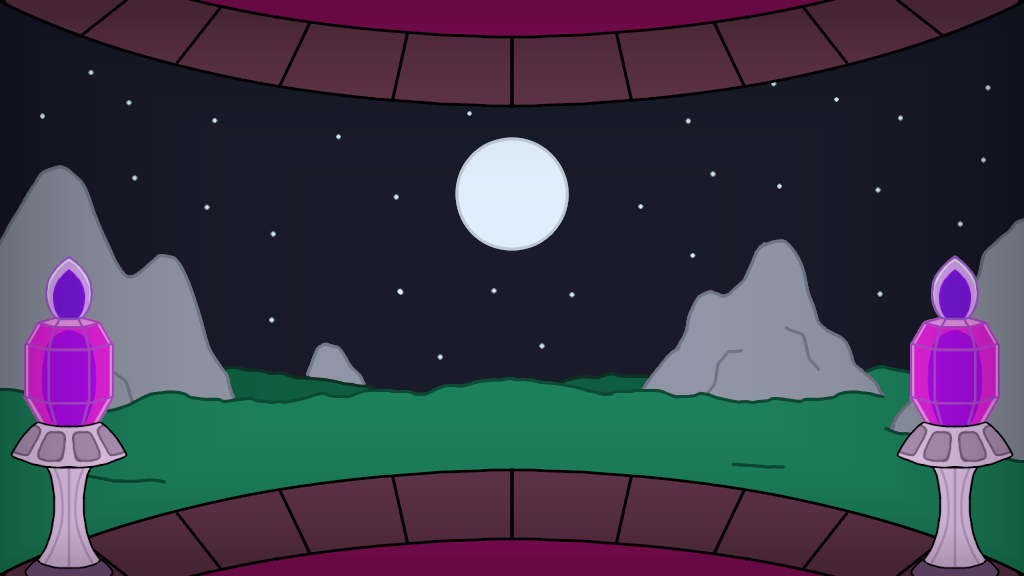
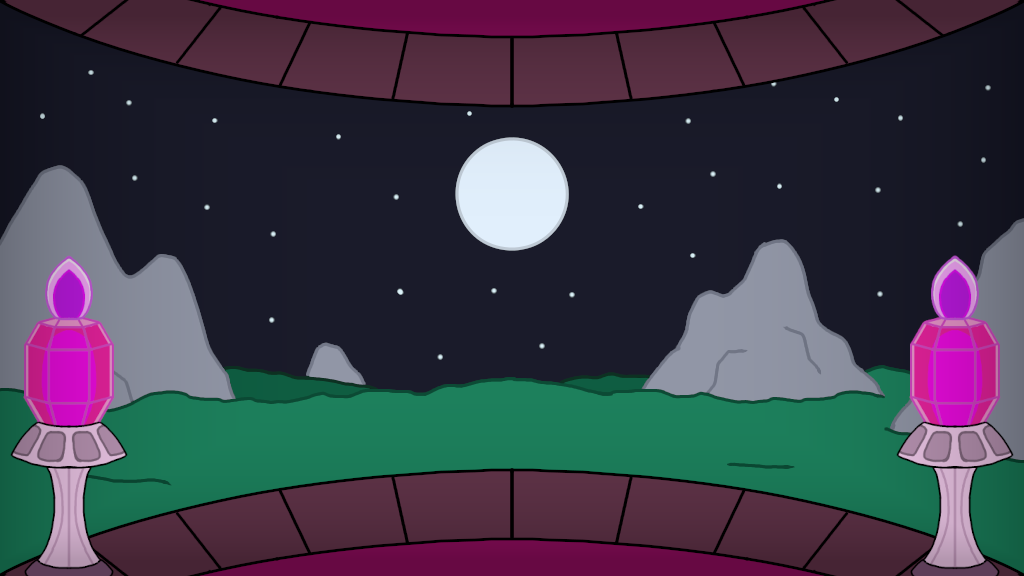
Updated Backgrounds, Updated Pinball
I updated the title and match backgrounds. I didn't change much, but they've been adjusted a little.

I updated the pinball ball and gate. For the ball, I changed the sprite so that the top and bottoms are clearer. For the gate, I changed the max weight, and I made it so that the gate changes colour based on its current weight. I also removed the ball hit sound effect because it was annoying.

Changed region(s): [[0.875, 0.4688, 1.0, 0.75], [0.0, 0.4688, 0.125, 0.75]]

diff --git a/Assets/Scripts/Gameplay/Match/Puzzles/Mechanics/Pinball/PinballGate.cs b/Assets/Scripts/Gameplay/Match/Puzzles/Mechanics/Pinball/PinballGate.cs
@@ -19,11 +19,21 @@ namespace RM_EM
         // The sprite renderer.
         public SpriteRenderer spriteRenderer;
 
+        [Header("Gate")]
+
         // Gets set to 'true' if the gate is open.
         public bool openedGate = false;
 
         // The max weight that can be handled before the gate opens.
         public float maxWeight = 5.0F;
+
+        // The colour for the gate when the weight is at its minimum (0).
+        [Tooltip("The gate colour when the gate is at its minimum weight.")]
+        public Color weightMinClr = Color.green;
+
+        // The colour for the gate when the weight is at its maximum.
+        [Tooltip("The gate colour when the gate is at its maximum weight.")]
+        public Color weightMaxClr = Color.red;
 
         // The timer for how long the gate stays open for.
         public float openTimer = 0.0F;
@@ -105,6 +115,9 @@ namespace RM_EM
 
             // Set the timer to max.
             ResetOpenTimerToMax();
+
+            // Resets the colour.
+            spriteRenderer.color = weightMinClr;
         }
 
         // Closes the gate.
@@ -119,6 +132,9 @@ namespace RM_EM
 
             // Set timer to 0.
             openTimer = 0.0F;
+
+            // Resets the colour.
+            spriteRenderer.color = weightMinClr;
         }
 
         // Set the timer to max.
@@ -143,6 +159,7 @@ namespace RM_EM
                 ball.AddTouchingBalls(ref contactBalls);
             }
 
+            // OLD
             // // Goes through all touching balls.
             // for (int i = 0; i < touchingBalls.Count; i++)
             // {
@@ -166,6 +183,24 @@ namespace RM_EM
                 weightSum += ball.GetWeight();
             }
 
+
+            // GATE COLOUR
+            // Sets the gate colour
+            // The colour's T value.
+            float colorT = Mathf.Clamp01(weightSum / maxWeight);
+
+            // Gets the new color.
+            Color newColor = new Color(
+                Mathf.Lerp(weightMinClr.r, weightMaxClr.r, colorT),
+                Mathf.Lerp(weightMinClr.g, weightMaxClr.g, colorT),
+                Mathf.Lerp(weightMinClr.b, weightMaxClr.b, colorT)
+                );
+
+            // Set the new color.
+            spriteRenderer.color = newColor;
+
+
+            // Return the weight sum.
             return weightSum;
         }
 

diff --git a/Assets/Scripts/Gameplay/Match/Puzzles/Mechanics/Pinball/PinballMechanic.cs b/Assets/Scripts/Gameplay/Match/Puzzles/Mechanics/Pinball/PinballMechanic.cs
@@ -20,6 +20,9 @@ namespace RM_EM
         // The pinball gate.
         public PinballGate gate;
 
+        // Enables the hit sound for the pinball balls. Disabled because they're annoying.
+        public bool hitSoundsEnabled = true;
+
         [Header("Pinball/Balls")]
 
         // The ball pool.

diff --git a/Assets/Scripts/Gameplay/Match/Puzzles/Mechanics/Pinball/BallValue.cs b/Assets/Scripts/Gameplay/Match/Puzzles/Mechanics/Pinball/BallValue.cs
@@ -43,7 +43,11 @@ namespace RM_EM
             }
 
             // Plays the ball hit SFX.
-            PlayBallHitSfx();
+            if(mechanic.hitSoundsEnabled)
+            {
+                PlayBallHitSfx();
+            }
+                
         }
 
         // Collision Exit 2D
